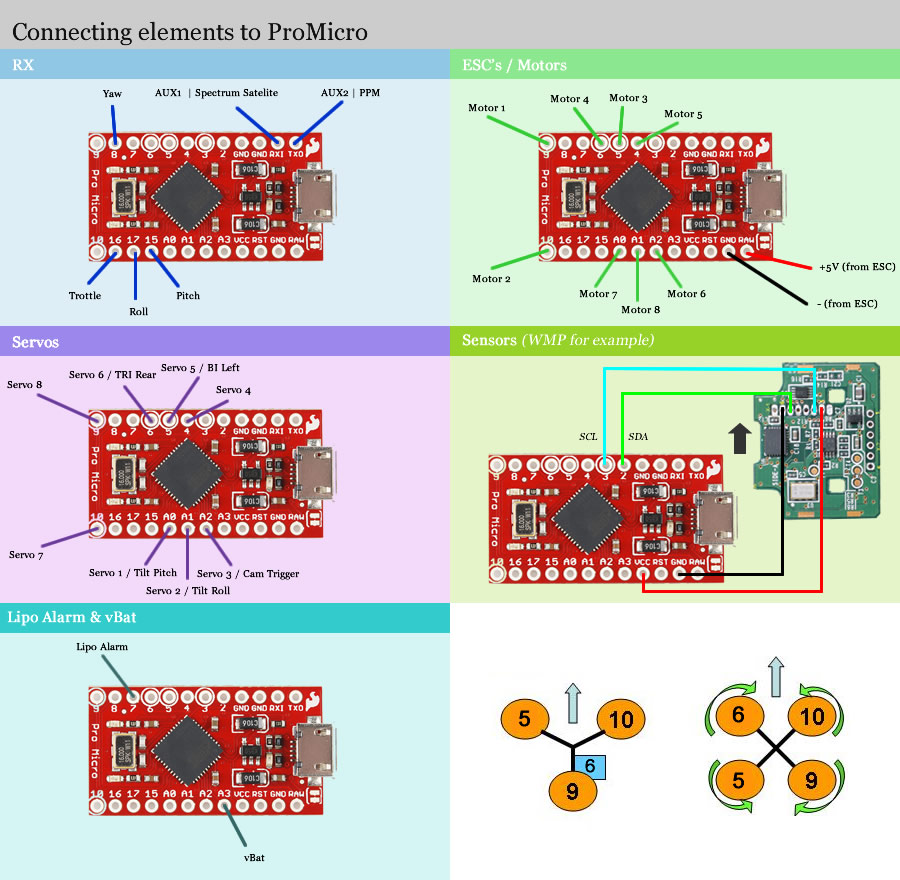
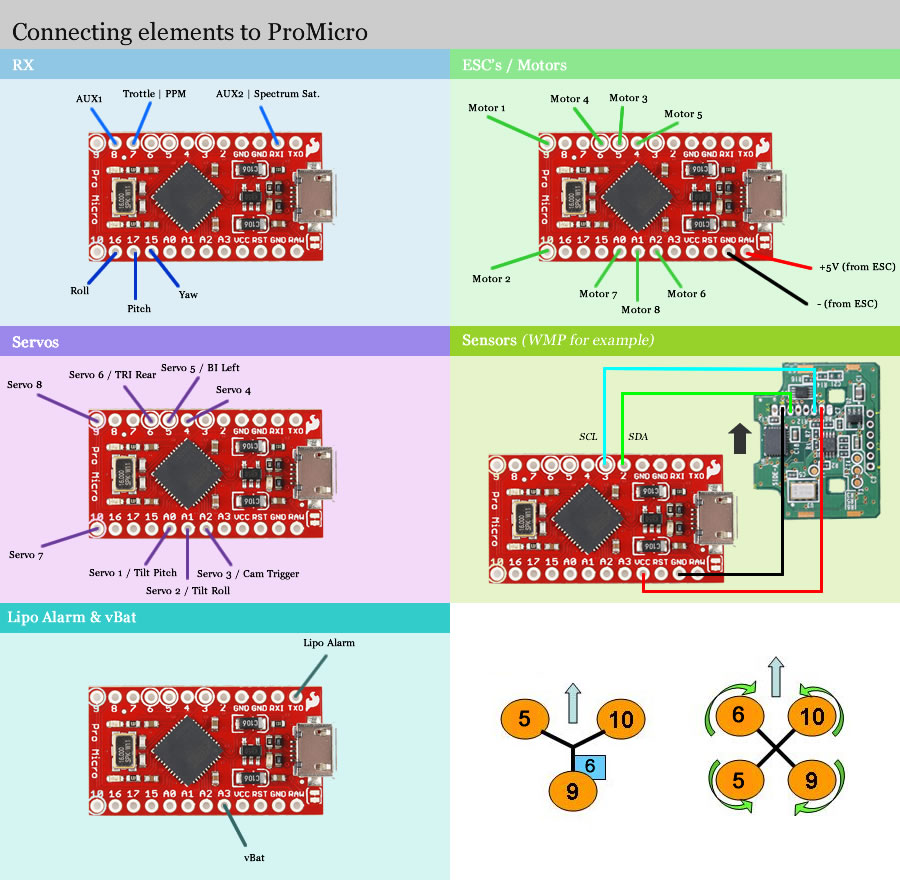
INT6 as Trottle/PPM pin works now -> better pin usage

diff --git a/def.h b/def.h
@@ -121,9 +121,9 @@
   #define LEDPIN_TOGGLE              PIND |= 1<<5;     //switch LEDPIN state (Port D5)
   #define LEDPIN_OFF                 PORTD &= ~(1<<5);
   #define LEDPIN_ON                  PORTD |= (1<<5);
-  #define BUZZERPIN_PINMODE          pinMode (7, OUTPUT);
-  #define BUZZERPIN_ON               PORTE |= 1<<6;
-  #define BUZZERPIN_OFF              PORTE &= ~(1<<6);
+  #define BUZZERPIN_PINMODE          pinMode (1, OUTPUT);
+  #define BUZZERPIN_ON               PORTD |= 1<<3;
+  #define BUZZERPIN_OFF              PORTD &= ~(1<<3);
   #define POWERPIN_PINMODE           //
   #define POWERPIN_ON                //
   #define POWERPIN_OFF               //

diff --git a/config.h b/config.h
@@ -58,6 +58,9 @@
 //#define RCAUXPIN8
 //#define RCAUXPIN12
 
+//aux2 pin for promicro (on pin RX0)
+//#define RCAUX2PIN
+
 /* This option is here if you want to use the old level code from the verison 1.7
    It's just to have some feedback. This will be removed in the future */
 //#define STAB_OLD_17
@@ -114,7 +117,7 @@
 
 /* I2C accelerometer */
 //#define ADXL345
-//#define BMA020
+#define BMA020
 //#define BMA180
 //#define NUNCHACK  // if you want to use the nunckuk as a standalone I2C ACC without WMP
 //#define LIS3LV02
